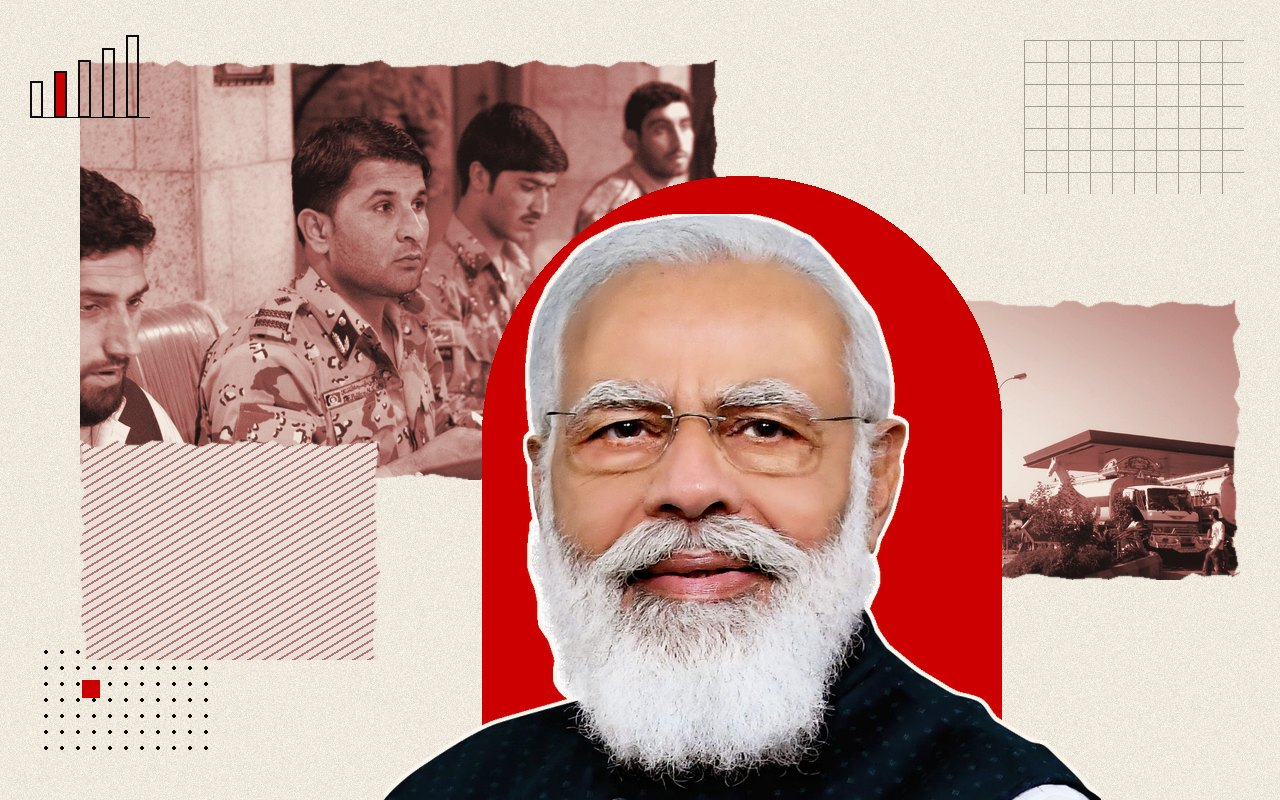
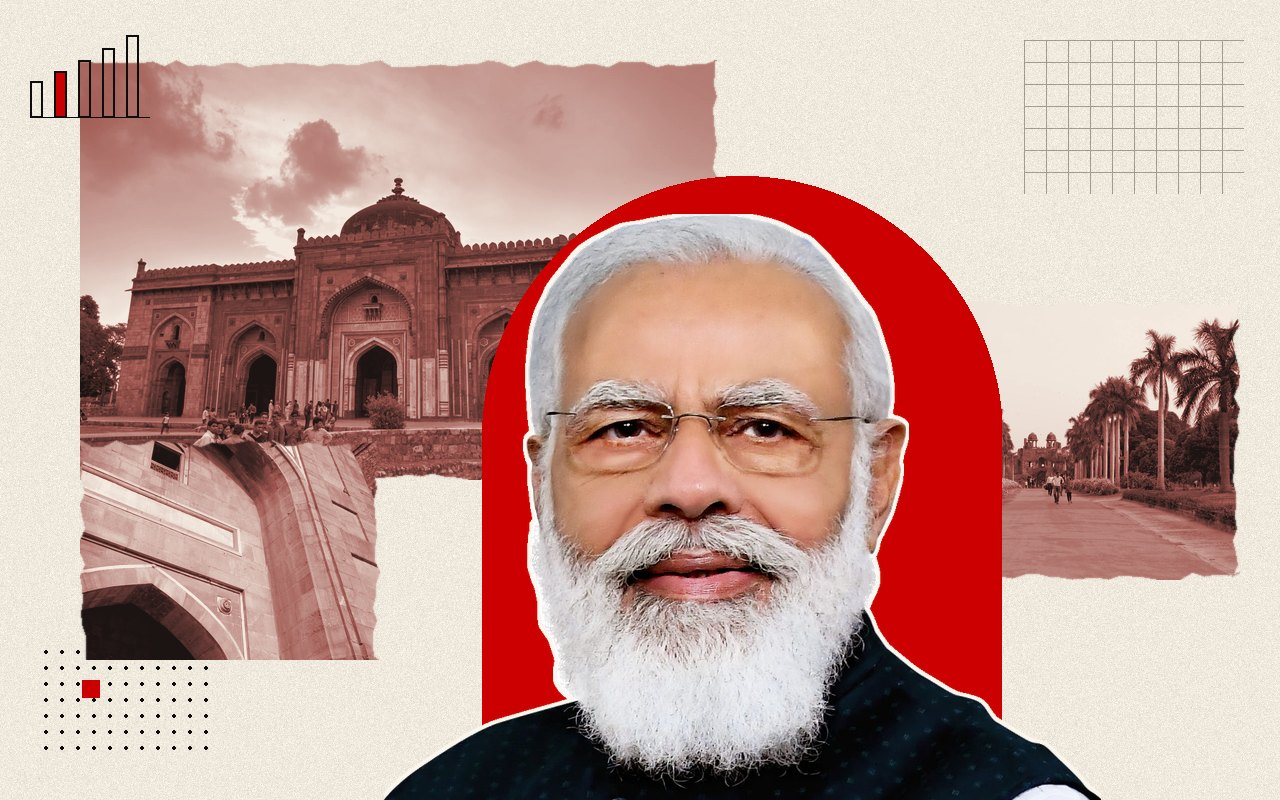
Hourly 20:00 IST (second publish): SCO forum collage remade with Old Fort scenes
The first collage of modi-sco-civilisational-dialogue-forum-purana-qila had unrelated tiles (soldiers from a Dushanbe story, then Pakistan trade and petrol scenes). Added two in-story photos of Purana Qila (Qila-i-Kuhna mosque, the octagonal tower; Commons, CC BY-SA 4.0) in both languages plus two more Old Fort scenes, and remade the collage; checked by eye.
Tool note for the stall check: treat_photo.people() reads "Purana Qila" and "Sher Mandal" as person names, so own scenes with those names in the alt are skipped; alts reworded to "Old Fort". Not yet added to tests/collage/cases.json.

Claude-Session: https://claude.ai/code/session_01C3zerW7Lw8hNH3wjUpLWm1

Changed region(s): [[0.0625, 0.0625, 0.5625, 0.8438], [0.75, 0.375, 0.9688, 0.75]]

diff --git a/content/hi/news/modi-sco-civilisational-dialogue-forum-purana-qila.md b/content/hi/news/modi-sco-civilisational-dialogue-forum-purana-qila.md
@@ -81,6 +81,10 @@ verification:
 
 केंद्रीय संस्कृति और पर्यटन मंत्री गजेंद्र सिंह शेखावत ने 13 नवंबर को दिल्ली में पत्रकारों को जानकारी दी। उन्होंने इसे केवल एक अंतरराष्ट्रीय जमावड़े से अधिक बताया और भरोसा जताया कि इससे प्रतिभागी देशों के बीच सांस्कृतिक आदान-प्रदान और आपसी समझ मजबूत होगी।
 
+```photo
+{"n": 1, "subject": "पुराना किला", "caption": "पुराना किला में किला-ए-कुहना मस्जिद। 16वीं सदी का यह किला 20 से 22 नवंबर तक मंच की मेजबानी करेगा।", "alt": "दिल्ली के पुराना किला में किला-ए-कुहना मस्जिद (फ़ाइल फ़ोटो)"}
+```
+
 ## कौन आ रहा है
 
 भारत ने **सभी 10 एससीओ सदस्य देशों** के संस्कृति मंत्रियों को न्योता दिया है, जिनमें चीन, रूस, ईरान और बेलारूस शामिल हैं, साथ ही पर्यवेक्षक और संवाद साझेदार देशों के प्रतिनिधियों को भी। हर देश अपने संस्कृति मंत्री और चार अन्य प्रतिनिधियों को भेज सकता है। रिपोर्टों में **25 से अधिक देशों** के आने की उम्मीद बताई गई है।
@@ -96,6 +100,10 @@ verification:
 तारीख बदली है। 12 जून को विदेश राज्य मंत्री कीर्ति वर्धन सिंह ने दुशांबे में एससीओ सम्मेलन में कहा था कि मंच **17 से 19 जुलाई तक कोलकाता** में होगा। बाद की रिपोर्टों में इसे नवंबर में दिल्ली में बताया गया। हमारे पढ़े किसी ब्योरे में बदलाव की वजह नहीं दी गई।
 
 पाकिस्तान को यह न्योता ऑपरेशन सिंदूर के करीब 18 महीने बाद आया है, और अप्रैल 2025 के पहलगाम हमले के बाद रिश्ते तनावपूर्ण बने हैं। दुशांबे में पाकिस्तान के उप प्रधानमंत्री इशाक डार की मौजूदगी में सिंह ने सदस्यों से आतंकवाद को धन देने, समर्थन देने या पनाह देने वालों के खिलाफ कार्रवाई करने को कहा था। भारत ने यह भी नहीं बताया है कि वह 2027 की इस्लामाबाद शिखर बैठक में किस स्तर पर शामिल होगा। अगस्त में विदेश मंत्रालय के सचिव सिबी जॉर्ज ने कहा था कि भारत एससीओ से "एक संस्था के रूप में, एक महत्वपूर्ण संगठन के रूप में" निपटता है और अलग-अलग देशों से जुड़ाव बाद में तय होगा।
+
+```photo
+{"n": 2, "subject": "शेर मंडल", "caption": "पुराना किला के भीतर अष्टकोणीय शेर मंडल।", "alt": "दिल्ली के पुराना किला में शेर मंडल (फ़ाइल फ़ोटो)"}
+```
 
 ## आगे क्या
 

diff --git a/content/en/news/modi-sco-civilisational-dialogue-forum-purana-qila.md b/content/en/news/modi-sco-civilisational-dialogue-forum-purana-qila.md
@@ -80,6 +80,10 @@ Four themed sessions are planned: religious and philosophical traditions, art an
 
 Union Culture and Tourism Minister Gajendra Singh Shekhawat briefed the media in Delhi on November 13. He called it more than an international gathering and said he was confident it would strengthen cultural exchange and mutual understanding among the participants.
 
+```photo
+{"n": 1, "subject": "Purana Qila", "caption": "The Qila-i-Kuhna mosque inside Purana Qila, the 16th-century fort in Delhi that hosts the forum from November 20 to 22.", "alt": "Qila-i-Kuhna mosque, Old Fort, Delhi (file photo)"}
+```
+
 ## Who is coming
 
 India invited the culture ministers of **all 10 SCO member states**, among them China, Russia, Iran and Belarus, along with representatives of observer and dialogue partner countries. Each country may bring its culture minister and up to four other delegates. Reports put expected attendance at **more than 25 countries**.
@@ -95,6 +99,10 @@ Modi proposed the idea at the SCO leaders' summit in Tianjin, China, in Septembe
 The date has moved. On June 12, Minister of State for External Affairs Kirti Vardhan Singh said at an SCO conference in Dushanbe that the forum would be held in **Kolkata from July 17 to 19**. Later reports place it in Delhi in November. None of the reports we read explains the change.
 
 The invitation to Pakistan comes about 18 months after Operation Sindoor, and relations remain strained after the April 2025 Pahalgam attack. At Dushanbe, Singh urged members to act against those who finance, support or shelter terrorist groups, with Pakistan's Deputy Prime Minister Ishaq Dar present. India has also not said at what level it will take part in the 2027 summit in Islamabad. In August, External Affairs Ministry Secretary Sibi George said India deals with the SCO "as an entity, as an important organisation" and that engagement with individual countries would be decided later.
+
+```photo
+{"n": 2, "subject": "Sher Mandal", "caption": "Sher Mandal, the octagonal tower inside Purana Qila.", "alt": "The octagonal tower inside Old Fort, Delhi (file photo)"}
+```
 
 ## What happens next
 
